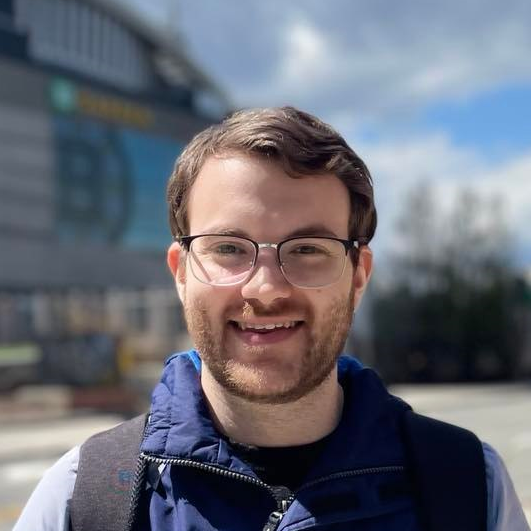
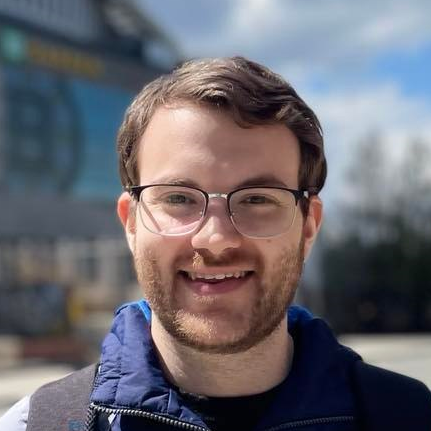
Updated TA Headshots
Added photo for junyan and zoomed in on max

diff --git a/index.html b/index.html
@@ -147,7 +147,7 @@ description: Index page
                 </br>
                 <div class="instructor2">
                   <a href="https://johnmaxh.github.io/">
-                    <div class="instructorphoto"><img src="assets/fig/max.jpeg"></div>
+                    <div class="instructorphoto"><img src="assets/fig/max.png"></div>
                     <div>Max Hamilton</div>
                   </a>
                   <div>TA Hours:</div>
@@ -155,7 +155,7 @@ description: Index page
                 </br>
                 <div class="instructor2">
                 <a href="https://senfu.github.io/">
-                  <div class="instructorphoto"><img src="assets/fig/eddie.png"></div>
+                  <div class="instructorphoto"><img src="assets/fig/junyan.jpg"></div>
                   <div>Junyan	Li</div>
                 </a>
                 <div>TA Hours:</div>
